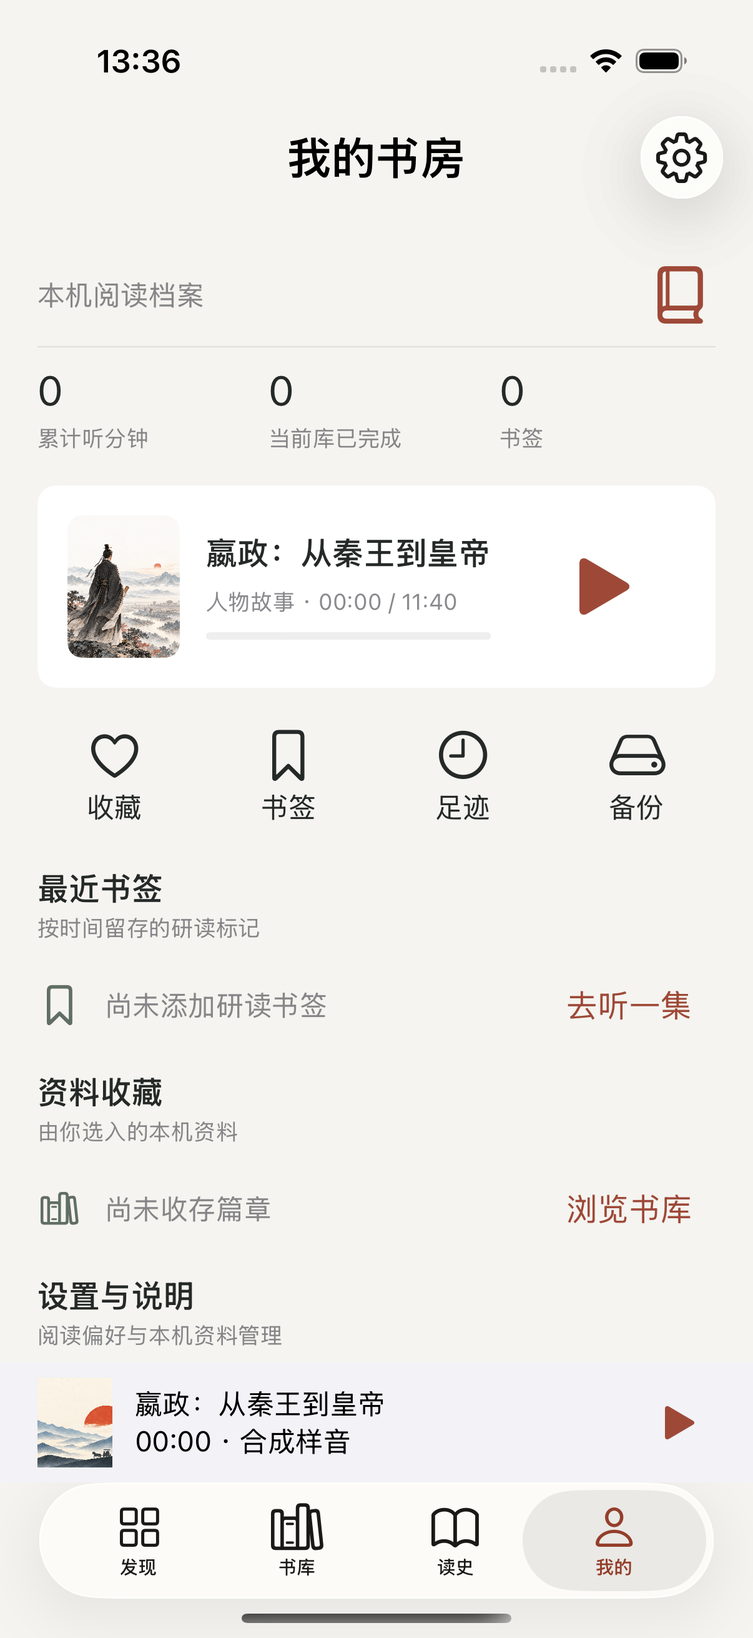
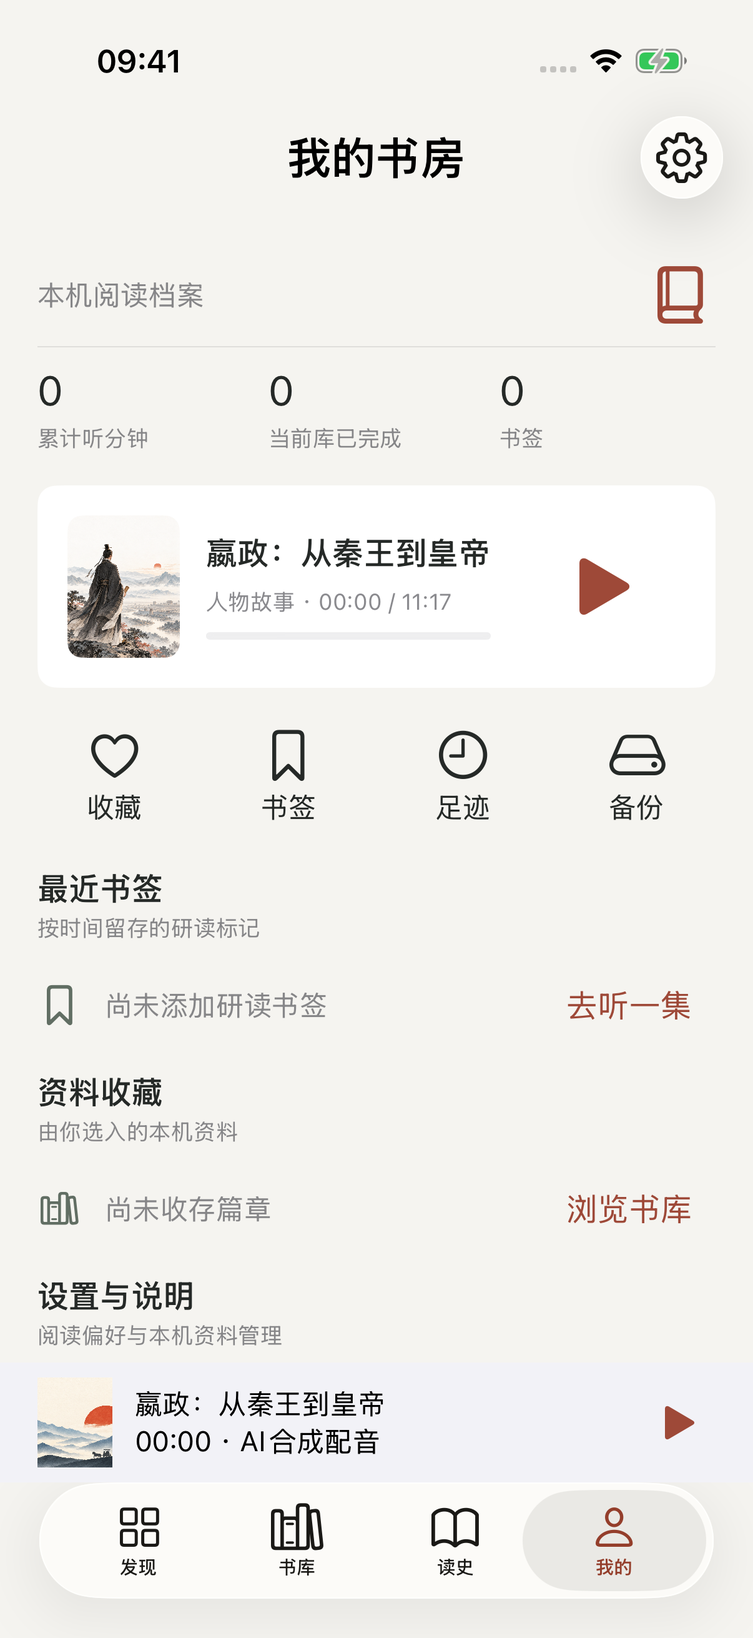
更新大秦史话 Kokoro 配音说明与真实界面

diff --git a/daqin-history/index.html b/daqin-history/index.html
@@ -1,10 +1,10 @@
 <!doctype html>
 <html lang="zh-Hans"><head><meta charset="utf-8"><meta name="viewport" content="width=device-width, initial-scale=1"><meta name="color-scheme" content="light"><title>大秦史话 · 离线秦史听读图录</title><meta name="description" content="人物、博弈与制度，连起一部原创秦史。十二集原创有声预览、八篇史料短读与六条专题路线，离线听读与本机书签收藏。"><meta name="theme-color" content="#F5F4F0"><link rel="icon" href="assets/app-icon.png" type="image/png"><link rel="apple-touch-icon" href="assets/app-icon.png"><link rel="stylesheet" href="styles.css"><link rel="canonical" href="https://jacky-linpeng.github.io/daqin-history/"><meta property="og:type" content="website"><meta property="og:title" content="大秦史话 · 新版预览"><meta property="og:url" content="https://jacky-linpeng.github.io/daqin-history/"><meta property="og:image" content="https://jacky-linpeng.github.io/daqin-history/assets/app-icon.png"></head>
 <body><a class="skip" href="#main">跳到正文</a><header class="site-header"><div class="wrap header-inner"><a class="brand" href="index.html"><img src="assets/app-icon.png" alt="大秦史话秦印图标" width="42" height="42"><span>大秦史话<small>A QIN HISTORY READER</small></span></a><nav aria-label="主导航"><a href="index.html" aria-current="page">首页</a><a href="support.html">使用支持</a><a href="privacy.html">隐私说明</a></nav></div></header><main id="main" class="wrap">
-<section class="hero" aria-labelledby="hero-title"><div><img class="hero-icon" src="assets/app-icon.png" alt="朱红秦印" width="78" height="78"><p class="eyebrow">大秦史话 / 离线有声与资料图录</p><h1 id="hero-title">听见人的选择，<br><em>读懂秦的秩序。</em></h1><p class="intro">从人物的命运，到制度里的日常。沿着文书、器物与历史线索，在听与读之间，慢慢展开一部秦史。</p><div class="actions"><a class="button primary" href="#screens">浏览真实界面 <span aria-hidden="true">↘</span></a><a class="button" href="#contents">翻开内容图录 <span aria-hidden="true">→</span></a></div><span class="status">新版预览 · 正在准备更新</span><p class="note">本次预览展示原创文稿与系统合成声音。新版正在准备更新，本页暂不提供新版下载。</p></div><figure class="hero-stage" aria-label="发现页真实截图"><div class="phone"><img src="assets/discovery.png" alt="App 发现页，包含十二集有声、八篇短读及专题档案入口" width="1206" height="2622" fetchpriority="high"></div><figcaption class="plate">01 / 发现与材料线索</figcaption></figure></section>
-<div class="inventory" aria-label="本次新版预览的内容数量"><div><strong>12 <small>集</small></strong><span>原创有声长篇 · 系统合成声音</span></div><div><strong>8 <small>篇</small></strong><span>史料短读 · 只读内容</span></div><div><strong>6 <small>条</small></strong><span>专题路线 · 串联已安装内容</span></div><div><strong>本机</strong><span>进度、书签与收藏随手留存</span></div></div>
+<section class="hero" aria-labelledby="hero-title"><div><img class="hero-icon" src="assets/app-icon.png" alt="朱红秦印" width="78" height="78"><p class="eyebrow">大秦史话 / 离线有声与资料图录</p><h1 id="hero-title">听见人的选择，<br><em>读懂秦的秩序。</em></h1><p class="intro">从人物的命运，到制度里的日常。沿着文书、器物与历史线索，在听与读之间，慢慢展开一部秦史。</p><div class="actions"><a class="button primary" href="#screens">浏览真实界面 <span aria-hidden="true">↘</span></a><a class="button" href="#contents">翻开内容图录 <span aria-hidden="true">→</span></a></div><span class="status">新版预览 · 正在准备更新</span><p class="note">本次预览展示原创文稿与AI合成配音（Kokoro内置声音）。新版正在准备更新，本页暂不提供新版下载。</p></div><figure class="hero-stage" aria-label="发现页真实截图"><div class="phone"><img src="assets/discovery.png" alt="App 发现页，包含十二集有声、八篇短读及专题档案入口" width="1206" height="2622" fetchpriority="high"></div><figcaption class="plate">01 / 发现与材料线索</figcaption></figure></section>
+<div class="inventory" aria-label="本次新版预览的内容数量"><div><strong>12 <small>集</small></strong><span>原创有声长篇 · AI合成配音（Kokoro内置声音）</span></div><div><strong>8 <small>篇</small></strong><span>史料短读 · 只读内容</span></div><div><strong>6 <small>条</small></strong><span>专题路线 · 串联已安装内容</span></div><div><strong>本机</strong><span>进度、书签与收藏随手留存</span></div></div>
 <section class="section" id="contents" aria-labelledby="content-title"><div class="section-heading"><div><span class="eyebrow">01 / 三种读史的尺度</span><h2 id="content-title">一部秦史，不只一种入口。</h2></div><p>人物讲关键选择，博弈讲信息与利益，制度讲规则怎样落到普通人的生活。不同问题，各有篇章。</p></div><div class="collection-grid"><article class="collection"><span class="number">Ⅰ</span><h3>人物与命运</h3><p>把人放回具体关系，观察选择的条件与后果。既看成就，也看权力、责任与材料的限度。</p><ul><li>嬴政：从秦王到皇帝</li><li>商鞅：改革者与留下的规则</li><li>李斯、赵高与宣太后</li></ul></article><article class="collection"><span class="number">Ⅱ</span><h3>信息与博弈</h3><p>从变法的利益分配，到沙丘的继承与伐楚的决策。分析组织如何行动，不把历史变成厚黑教程。</p><ul><li>变法的利益冲突</li><li>沙丘继承：谁能让命令被相信</li><li>伐楚决策：二十万与六十万之间</li></ul></article><article class="collection"><span class="number">Ⅲ</span><h3>制度与日常</h3><p>爵位、县廷、役种与交易不再只是名词。跟随登记、核验、交付的过程，看见规则背后的人。</p><ul><li>军功爵与县廷运转</li><li>徭役、兵役与刑徒劳动</li><li>半两钱进入市场</li></ul></article></div><div class="route-strip" aria-label="六条专题路线"><span>改革的代价</span><span>沙丘之后</span><span>帝国如何运转</span><span>秦人日常</span><span>战争与动员</span><span>女性与王权</span></div><p class="note">路线是既有长篇与短读的阅读顺序，不另计为新增作品。</p></section>
-<section class="section" id="screens" aria-labelledby="screens-title"><div class="section-heading"><div><span class="eyebrow">02 / 来自实际应用</span><h2 id="screens-title">听、查、留存，连成一次阅读。</h2></div><p>以下来自新版 App 的真实界面，展示发现、播放、短读与个人书房。</p></div><div class="screens"><figure class="screen-item"><div class="screen-mat"><img src="assets/player.png" alt="有声播放器，显示真实进度、倍速、睡眠定时、书签及当前系列" width="1206" height="2622" loading="lazy"></div><figcaption><span class="index">01 / 听一集</span><h3>从断点接着听</h3><p>本地播放、进度保存、倍速与睡眠定时。需要时打开同一集的完整文稿。</p></figcaption></figure><figure class="screen-item"><div class="screen-mat"><img src="assets/shortread.png" alt="史料短读正文，可查看材料说明与资料来源" width="1206" height="2622" loading="lazy"></div><figcaption><span class="index">02 / 查一件</span><h3>让材料说清自己的边界</h3><p>家书、虎符、钱币与刻石各有来处。来源说明离线保存，外部原文由你主动打开。</p></figcaption></figure><figure class="screen-item"><div class="screen-mat"><img src="assets/shelf.png" alt="我的书房真实空态，累计听分钟、完成数和书签均为零，没有虚构个人数据" width="1206" height="2622" loading="lazy"></div><figcaption><span class="index">03 / 留一页</span><h3>自己的研读档案</h3><p>书签定位值得重听的片刻，收藏收存想再读的篇章。不必登录，真实记录自己的听读足迹。</p></figcaption></figure></div></section>
-<section class="section reading" aria-labelledby="reading-title"><div><span class="eyebrow">03 / 资料感，也是一种诚实</span><h2 id="reading-title">知道据何而说，<br>也知道何处尚不能说。</h2><p>大秦史话以原创讲述串联传世记载、出土文书与博物馆资料。古籍叙事、现代研究与解释性案例分别说明，不补写密室对白，也不把艺术插图当作考古证据。</p><a href="support.html" class="button">使用帮助与内容反馈 <span aria-hidden="true">→</span></a></div><ol><li><strong>音与文，对应同一篇章</strong><span>十二集完整文稿配本地系统合成声音；短读明确标为只读，不冒充有声内容。</span></li><li><strong>离线读，主动访问外部资料</strong><span>正文、来源名称和阅读提示随内容保存。打开原始资料时才离开应用访问网站。</span></li><li><strong>记录属于此设备</strong><span>历史、书签、收藏与设置保存在本机；需要换机或卸载前，可主动导出 JSON 备份。</span></li></ol></section>
-<section class="section"><div class="disclosure"><h3>关于声音与资料</h3><p>本次预览采用系统合成声音朗读原创文稿，非原版演播，不包含原作逐字稿。史料短读提供来源与阅读提示；配图为艺术意象，不作为历史现场的复原证据。</p></div><div class="no-store">新版正在准备更新。发布信息确认后，本页将更新新版获取方式。</div></section>
+<section class="section" id="screens" aria-labelledby="screens-title"><div class="section-heading"><div><span class="eyebrow">02 / 来自实际应用</span><h2 id="screens-title">听、查、留存，连成一次阅读。</h2></div><p>以下来自新版 App 的真实界面，展示发现、播放、短读与个人书房。</p></div><div class="screens"><figure class="screen-item"><div class="screen-mat"><img src="assets/player.png" alt="有声播放器，显示真实进度、倍速、睡眠定时、书签及当前系列" width="1206" height="2622" loading="lazy"></div><figcaption><span class="index">01 / 听一集</span><h3>从断点接着听</h3><p>本地播放、进度保存、倍速与睡眠定时。需要时打开同一集的完整文稿。</p></figcaption></figure><figure class="screen-item"><div class="screen-mat"><img src="assets/shortread.png" alt="史料短读来源页，展示材料说明与原始资料入口" width="1206" height="2622" loading="lazy"></div><figcaption><span class="index">02 / 查一件</span><h3>让材料说清自己的边界</h3><p>家书、虎符、钱币与刻石各有来处。来源说明离线保存，外部原文由你主动打开。</p></figcaption></figure><figure class="screen-item"><div class="screen-mat"><img src="assets/shelf.png" alt="我的书房真实空态，累计听分钟、完成数和书签均为零，没有虚构个人数据" width="1206" height="2622" loading="lazy"></div><figcaption><span class="index">03 / 留一页</span><h3>自己的研读档案</h3><p>书签定位值得重听的片刻，收藏收存想再读的篇章。不必登录，真实记录自己的听读足迹。</p></figcaption></figure></div></section>
+<section class="section reading" aria-labelledby="reading-title"><div><span class="eyebrow">03 / 资料感，也是一种诚实</span><h2 id="reading-title">知道据何而说，<br>也知道何处尚不能说。</h2><p>大秦史话以原创讲述串联传世记载、出土文书与博物馆资料。古籍叙事、现代研究与解释性案例分别说明，不补写密室对白，也不把艺术插图当作考古证据。</p><a href="support.html" class="button">使用帮助与内容反馈 <span aria-hidden="true">→</span></a></div><ol><li><strong>音与文，对应同一篇章</strong><span>十二集完整文稿配AI合成配音（Kokoro内置声音）；短读明确标为只读，不冒充有声内容。</span></li><li><strong>离线读，主动访问外部资料</strong><span>正文、来源名称和阅读提示随内容保存。打开原始资料时才离开应用访问网站。</span></li><li><strong>记录属于此设备</strong><span>历史、书签、收藏与设置保存在本机；需要换机或卸载前，可主动导出 JSON 备份。</span></li></ol></section>
+<section class="section"><div class="disclosure"><h3>关于声音与资料</h3><p>本次预览采用AI合成配音（Kokoro内置声音）朗读原创文稿，非原版演播，不包含原作逐字稿。史料短读提供来源与阅读提示；配图为艺术意象，不作为历史现场的复原证据。</p></div><div class="no-store">新版正在准备更新。发布信息确认后，本页将更新新版获取方式。</div></section>
 </main><footer class="site-footer"><div class="wrap footer-inner"><div>© 2026 Peng Lin · 大秦史话<br>新版预览，正在准备更新。</div><div class="footer-links"><a href="index.html">产品介绍</a><a href="support.html">使用支持</a><a href="privacy.html">隐私说明</a></div></div></footer></body></html>

diff --git a/daqin-history/support.html b/daqin-history/support.html
@@ -1,6 +1,6 @@
 <!doctype html>
 <html lang="zh-Hans"><head><meta charset="utf-8"><meta name="viewport" content="width=device-width, initial-scale=1"><meta name="color-scheme" content="light"><title>使用支持 · 大秦史话</title><meta name="description" content="大秦史话离线播放、书签收藏、JSON备份、未关联记录与资料来源的使用帮助。"><meta name="theme-color" content="#F5F4F0"><link rel="icon" href="assets/app-icon.png" type="image/png"><link rel="apple-touch-icon" href="assets/app-icon.png"><link rel="stylesheet" href="styles.css"><link rel="canonical" href="https://jacky-linpeng.github.io/daqin-history/support.html"><meta property="og:type" content="website"><meta property="og:title" content="大秦史话 · 新版预览"><meta property="og:url" content="https://jacky-linpeng.github.io/daqin-history/support.html"><meta property="og:image" content="https://jacky-linpeng.github.io/daqin-history/assets/app-icon.png"></head>
 <body><a class="skip" href="#main">跳到正文</a><header class="site-header"><div class="wrap header-inner"><a class="brand" href="index.html"><img src="assets/app-icon.png" alt="大秦史话秦印图标" width="42" height="42"><span>大秦史话<small>A QIN HISTORY READER</small></span></a><nav aria-label="主导航"><a href="index.html">首页</a><a href="support.html" aria-current="page">使用支持</a><a href="privacy.html">隐私说明</a></nav></div></header><main id="main" class="wrap"><header class="page-head"><span class="eyebrow">大秦史话 / 使用支持</span><h1>把问题留在这里，<br>让阅读继续。</h1><p>关于播放、书签、备份与资料来源的常见问题。本页介绍新版预览中的播放、阅读与本机记录功能。新版正在准备更新。</p></header><div class="document"><section><h2>开始一次听读</h2><ol><li>在“发现”选择人物、博弈或制度，或从专题档案进入关联内容。</li><li>有声长篇可播放完整本地样音，也可打开同一集的全文。短读明确标为“只读”。</li><li>播放时添加书签和备注，在“我的书房”查看历史、书签与收藏。</li><li>需要换机或卸载前，从“备份”导出 JSON 并确认文件保存完成。</li></ol></section>
-<section><h2>常见问题</h2><details open><summary>现在可以下载新版吗？</summary><p>新版正在准备更新，当前页面用于介绍新版内容与界面，暂不提供新版下载。正式发布后，我们会在这里更新获取方式。</p></details><details><summary>需要联网、账号或订阅吗？</summary><p>本页展示的新版无账号，播放和阅读使用内置内容，不包含广告 SDK 或分析 SDK。你主动打开外部史料网站、保存文件到云盘或发送支持邮件时，相关系统服务可能需要网络。</p></details><details><summary>为什么听到的是合成声音？</summary><p>本次预览以系统合成声音朗读原创秦史文稿，方便在听与读之间切换。它不是原版演播，也不包含原作逐字稿。</p></details><details><summary>进度、书签和收藏能自动同步到另一部手机吗？</summary><p>不能。记录保存在本机，不提供账号云同步。请主动导出 JSON 备份，在另一设备选择导入。导入前会校验并显示预览，较新的同版本章节进度优先，重复书签去重，设置按预览提示恢复。</p></details><details><summary>导入后出现“未关联记录”是什么意思？</summary><p>记录对应的章节 ID 或内容版本没有安装。应用保留这些记录，但不会仅凭相似标题挂到另一篇内容上。原版数据迁移未经验证，不承诺从旧应用自动恢复。</p></details><details><summary>清除历史会删除所有资料吗？</summary><p>单条历史删除不会删除书签；设置里的“清除收听记录”会清进度、书签、收藏与统计，保留设置与欢迎状态。操作前请核对提示，并导出需要保留的资料。</p></details><details><summary>怎样核对内容中的史实？</summary><p>全文末尾和详情页提供来源名称、引用位置及阅读提示，全文阅读可点“来源”定位。原始资料链接在你确认后打开。内容区分古籍记载、现代解释和分析案例；仍有争议的内容不作为确定事实。</p></details><details><summary>发现错字、史实问题或来源失效怎么办？</summary><p>请记录篇章标题、正文小节、问题句子及建议依据。若是播放问题，可同时记录发生位置、iOS 与应用版本。只需发送必要信息，不必提供完整个人备份。</p></details></section>
+<section><h2>常见问题</h2><details open><summary>现在可以下载新版吗？</summary><p>新版正在准备更新，当前页面用于介绍新版内容与界面，暂不提供新版下载。正式发布后，我们会在这里更新获取方式。</p></details><details><summary>需要联网、账号或订阅吗？</summary><p>本页展示的新版无账号，播放和阅读使用内置内容，不包含广告 SDK 或分析 SDK。你主动打开外部史料网站、保存文件到云盘或发送支持邮件时，相关系统服务可能需要网络。</p></details><details><summary>为什么听到的是合成声音？</summary><p>本次预览以AI合成配音（Kokoro内置声音）朗读原创秦史文稿，方便在听与读之间切换。它不是原版演播，也不包含原作逐字稿。</p></details><details><summary>进度、书签和收藏能自动同步到另一部手机吗？</summary><p>不能。记录保存在本机，不提供账号云同步。请主动导出 JSON 备份，在另一设备选择导入。导入前会校验并显示预览，较新的同版本章节进度优先，重复书签去重，设置按预览提示恢复。</p></details><details><summary>导入后出现“未关联记录”是什么意思？</summary><p>记录对应的章节 ID 或内容版本没有安装。应用保留这些记录，但不会仅凭相似标题挂到另一篇内容上。原版数据迁移未经验证，不承诺从旧应用自动恢复。</p></details><details><summary>清除历史会删除所有资料吗？</summary><p>单条历史删除不会删除书签；设置里的“清除收听记录”会清进度、书签、收藏与统计，保留设置与欢迎状态。操作前请核对提示，并导出需要保留的资料。</p></details><details><summary>怎样核对内容中的史实？</summary><p>全文末尾和详情页提供来源名称、引用位置及阅读提示，全文阅读可点“来源”定位。原始资料链接在你确认后打开。内容区分古籍记载、现代解释和分析案例；仍有争议的内容不作为确定事实。</p></details><details><summary>发现错字、史实问题或来源失效怎么办？</summary><p>请记录篇章标题、正文小节、问题句子及建议依据。若是播放问题，可同时记录发生位置、iOS 与应用版本。只需发送必要信息，不必提供完整个人备份。</p></details></section>
 <section id="contact"><h2>联系与反馈</h2><div class="disclosure"><h3>联系开发者</h3><p>使用或内容问题，请发邮件至 <a href="mailto:540933120@qq.com?subject=%E5%A4%A7%E7%A7%A6%E5%8F%B2%E8%AF%9D%20%E4%BD%BF%E7%94%A8%E5%8F%8D%E9%A6%88">540933120@qq.com</a>。我们会根据你提供的情况协助定位问题。</p></div><p>应用内“帮助与反馈”提供诊断信息复制入口。请先保留应用版本、iOS 版本、复现步骤和问题截图；截图中的私人备注应先遮挡。</p></section>
-<section><h2>当前内容与后续说明</h2><p>本次新版预览包括十二集原创长篇与系统合成声音、八篇史料短读，以及六条串联内容的专题路线。路线帮助选择阅读顺序，不另计为新增作品。</p><p>更多资料处理方式见<a href="privacy.html">隐私说明</a>。</p></section></div></main><footer class="site-footer"><div class="wrap footer-inner"><div>© 2026 Peng Lin · 大秦史话<br>新版预览，正在准备更新。</div><div class="footer-links"><a href="index.html">产品介绍</a><a href="support.html">使用支持</a><a href="privacy.html">隐私说明</a></div></div></footer></body></html>
+<section><h2>当前内容与后续说明</h2><p>本次新版预览包括十二集原创长篇与AI合成配音（Kokoro内置声音）、八篇史料短读，以及六条串联内容的专题路线。路线帮助选择阅读顺序，不另计为新增作品。</p><p>更多资料处理方式见<a href="privacy.html">隐私说明</a>。</p></section></div></main><footer class="site-footer"><div class="wrap footer-inner"><div>© 2026 Peng Lin · 大秦史话<br>新版预览，正在准备更新。</div><div class="footer-links"><a href="index.html">产品介绍</a><a href="support.html">使用支持</a><a href="privacy.html">隐私说明</a></div></div></footer></body></html>

diff --git a/daqin-history/privacy.html b/daqin-history/privacy.html
@@ -8,4 +8,4 @@
 <section><h2>5. 反馈与支持</h2><p>你主动向支持渠道提交反馈时，接收方会收到你主动发送的文字和附件。如果使用邮件，也会收到你的发件地址。反馈内容仅用于处理问题和回复。请只提供处理问题需要的信息，先遮挡个人备注及其他私人内容，不要默认发送完整备份。应用不会自动替你发送这些资料。</p><p>隐私或资料处理问题，可发送邮件至 <a href="mailto:540933120@qq.com">540933120@qq.com</a>，也可查看<a href="support.html#contact">使用支持页</a>。</p></section>
 <section><h2>6. 本网站</h2><p>本网站为静态产品与帮助页面，不设置用户账号、分析脚本、广告脚本或第三方字体请求，不使用 Cookie 或本地存储进行访问追踪。访问网页仍会向托管服务发送提供页面所必需的网络请求信息，例如 IP 地址和浏览器请求头。本网站使用 GitHub Pages 托管；GitHub 可能依据其政策处理访问日志；这与 App 内记录的本机保存相独立。</p></section>
 <section><h2>7. 关于将来的广告版本</h2><p>本页展示的新版预览没有接入 Google AdMob 或其他广告 SDK。若未来加入广告或其他联网服务，我们会在相应版本发布前更新隐私说明、应用内提示及商店隐私信息，并按实际功能提供适用的隐私选择。</p></section>
-<section><h2>8. 内容与说明更新</h2><p>新版预览采用原创文稿与系统合成声音，非原版演播。资料说明会区分古籍记载、现代研究及解释性案例。我们会随实际功能与内容更新本说明，并在页面注明日期。</p></section></div></main><footer class="site-footer"><div class="wrap footer-inner"><div>© 2026 Peng Lin · 大秦史话<br>新版预览，正在准备更新。</div><div class="footer-links"><a href="index.html">产品介绍</a><a href="support.html">使用支持</a><a href="privacy.html">隐私说明</a></div></div></footer></body></html>
+<section><h2>8. 内容与说明更新</h2><p>新版预览采用原创文稿与AI合成配音（Kokoro内置声音），非原版演播。资料说明会区分古籍记载、现代研究及解释性案例。我们会随实际功能与内容更新本说明，并在页面注明日期。</p></section></div></main><footer class="site-footer"><div class="wrap footer-inner"><div>© 2026 Peng Lin · 大秦史话<br>新版预览，正在准备更新。</div><div class="footer-links"><a href="index.html">产品介绍</a><a href="support.html">使用支持</a><a href="privacy.html">隐私说明</a></div></div></footer></body></html>
